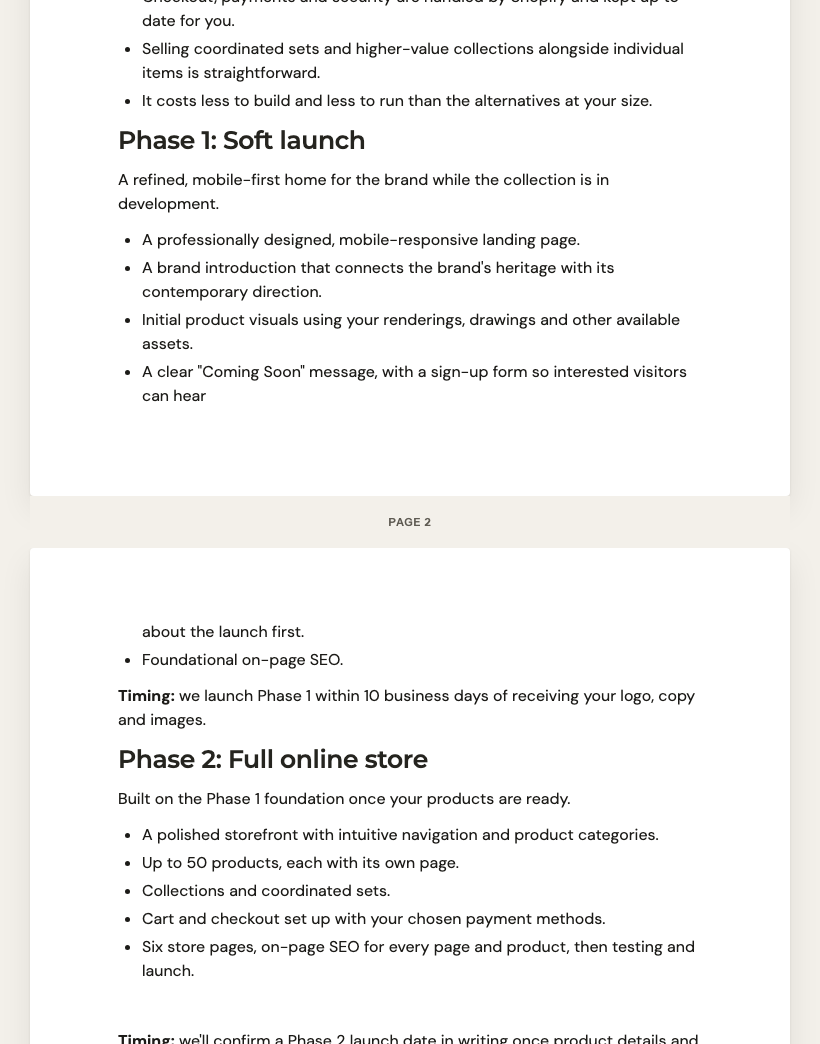
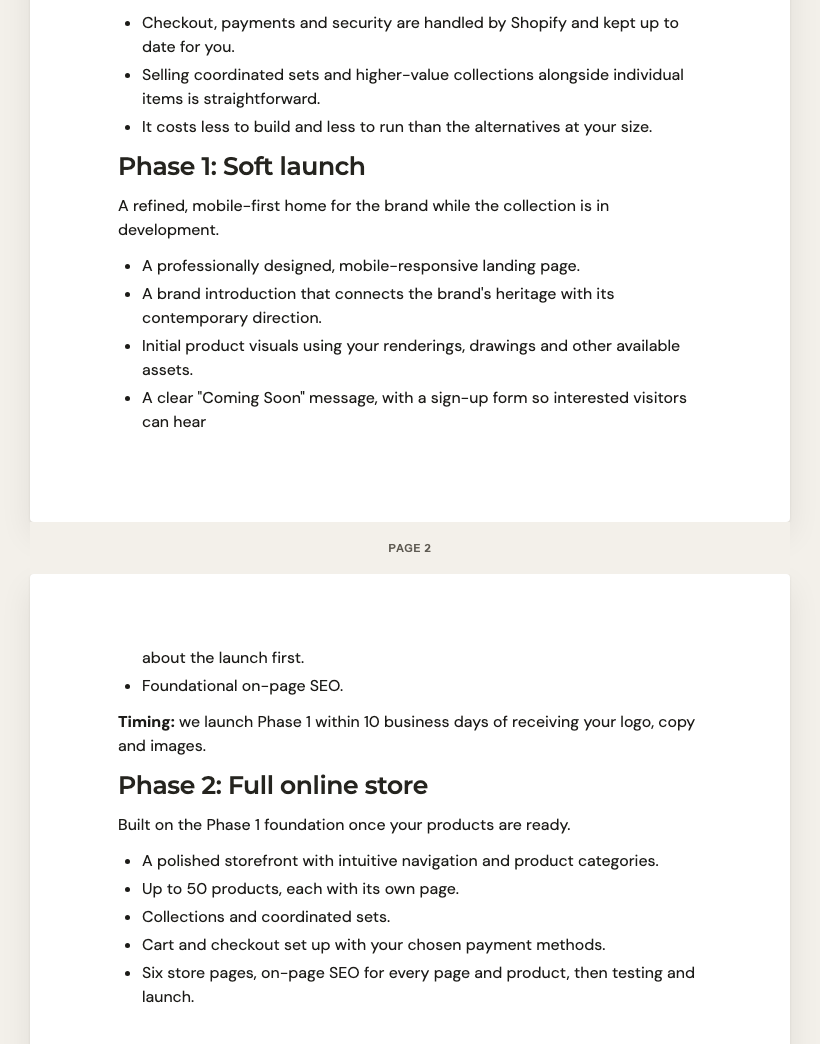
Document PR 6 verification and owner-review evidence

Changed region(s): [[0.122, 0.0, 0.8232, 0.4291], [0.122, 0.5824, 0.8537, 1.0], [0.4878, 0.4904, 0.5183, 0.5517]]

diff --git a/docs/editor-v2-pr6-evidence.md b/docs/editor-v2-pr6-evidence.md
@@ -1,0 +1,35 @@
+# Editor v2 owner review — PR 6 evidence
+
+Viewport: 1440 × 1100, light theme. Before: main `30297b8`; after: this PR. Both use the existing neutral TEST 3 text/list structure, Montserrat / DM Sans, Standard density, 0.75in margins, and a neutral logo with the owner's original aspect ratio. Pricing adds neutral required, optional, alternative and multi-sub-line examples. Signed examples use synthetic fixture signatures. No live owner export is included.
+
+The before page break cuts the visible “Coming Soon” item after “hear”; after, the complete two-line item starts page 2. PDF images below are generated by the app's actual preview/sealing renderer and rendered with Poppler. The completion certificate is unchanged and excluded from this visual comparison.
+
+| Change | Before | After |
+| --- | --- | --- |
+| Page 1 → 2 | ![Before page break](screenshots/editor-v2-pr6/break-before.png) | ![After page break](screenshots/editor-v2-pr6/break-after.png) |
+| Sections | ![Before Sections](screenshots/editor-v2-pr6/sections-before.png) | ![After Sections](screenshots/editor-v2-pr6/sections-after.png) |
+| Required / optional / choice rows | ![Before pricing](screenshots/editor-v2-pr6/pricing-before.png) | ![After pricing](screenshots/editor-v2-pr6/pricing-after.png) |
+| Totals | ![Before totals](screenshots/editor-v2-pr6/totals-before.png) | ![After totals](screenshots/editor-v2-pr6/totals-after.png) |
+| Unsigned signatures | ![Before unsigned signatures](screenshots/editor-v2-pr6/signatures-unsigned-before.png) | ![After unsigned signatures](screenshots/editor-v2-pr6/signatures-unsigned-after.png) |
+| Signed signatures | ![Before signed signatures](screenshots/editor-v2-pr6/signatures-signed-before.png) | ![After signed signatures](screenshots/editor-v2-pr6/signatures-signed-after.png) |
+| Client signing | ![Before signing](screenshots/editor-v2-pr6/signing-interaction-before.png) | ![After signing](screenshots/editor-v2-pr6/signing-interaction-after.png) |
+| Cover edit mode | ![Before cover editing](screenshots/editor-v2-pr6/cover-before.png) | ![After cover editing](screenshots/editor-v2-pr6/cover-after.png) |
+| Sub-line inputs / removal | ![Before sub-lines](screenshots/editor-v2-pr6/sublines-before.png) | ![After sub-lines](screenshots/editor-v2-pr6/sublines-after.png) |
+
+After removing down to one line: ![Single line shown as item price](screenshots/editor-v2-pr6/subline-single-after.png)
+
+## Matching PDF pages
+
+| Page | Before | After |
+| --- | --- | --- |
+| 1 — cover / first page | ![Before PDF page 1](screenshots/editor-v2-pr6/pdf-before-1.png) | ![After PDF page 1](screenshots/editor-v2-pr6/pdf-after-1.png) |
+| 2 — text continuation | ![Before PDF page 2](screenshots/editor-v2-pr6/pdf-before-2.png) | ![After PDF page 2](screenshots/editor-v2-pr6/pdf-after-2.png) |
+| 3 — pricing / totals | ![Before PDF page 3](screenshots/editor-v2-pr6/pdf-before-3.png) | ![After PDF page 3](screenshots/editor-v2-pr6/pdf-after-3.png) |
+| 4 — unsigned signatures | ![Before PDF page 4](screenshots/editor-v2-pr6/pdf-before-4.png) | ![After PDF page 4](screenshots/editor-v2-pr6/pdf-after-4.png) |
+| 4 — signed signatures | ![Before signed PDF page 4](screenshots/editor-v2-pr6/pdf-signed-before-4.png) | ![After signed PDF page 4](screenshots/editor-v2-pr6/pdf-signed-after-4.png) |
+
+Single-price PDF projection after removing two sub-lines: ![Single-price PDF](screenshots/editor-v2-pr6/pdf-single-after-3.png)
+
+## Verification
+
+Full unfiltered browser suite: 139 passed, three optional capture tests skipped (11.2 minutes). All 311 unit/database tests (53 files), TypeScript, formatting, neutrality, production build and PDF runtime tracing (327 API files) passed. Frozen PagePlan, PDF page-start/text, hash, persistence and signing-conflict assertions remain intact.

diff --git a/HANDOFF_PHASE2.md b/HANDOFF_PHASE2.md
@@ -888,4 +888,16 @@ Six new browser regressions cover failed fonts/images, a stalled image and a sta
 
 ## PR 6 — owner-review fixes (preflight)
 
-Started from main `30297b8`. The neutral TEST 3 fixture confirms the reported mid-line break: its display column is 585.6px versus the PDF's 672px, and source offset 312 falls inside a display line. Baseline capture and the pending question about non-adjacent signatures are in `docs/editor-v2-pr6-preflight.md`. Implementation will use one commit per numbered fix; no database migration is currently indicated for cover data in existing JSON.
+Started from main `30297b8`. The neutral TEST 3 fixture confirms the reported mid-line break: its display column is 585.6px versus the PDF's 672px, and source offset 312 falls inside a display line. Baseline measurements and the resolved adjacent-only signature decision are in `docs/editor-v2-pr6-preflight.md`. Each numbered fix has its own implementation commit; cover data uses existing JSON without a database migration.
+
+## Editor v2 owner review — PR 6 / PR #56
+
+Seven implementation commits cover the seven requested fixes. TEST 3 confirmed that the old 585.6px visible text column disagreed with the 672px PDF column. The editor now uses the PDF column whenever it fits; narrow displays snap the painted continuation to a line start without changing canonical offsets. New pagination keeps short paragraphs/list items whole and enforces two lines on each side of paragraph/list/clause splits. Existing frozen PagePlans, hash inputs for versions without a cover, and signing conflict guards are retained.
+
+Sections handles align with the title's first line. Pricing rows, choices, the totals grid and signatures share their screen/print presentation. Adjacent client/company signatures pair; authored separations and frozen breaks remain intact. The same signature pair previews the client's entry while signing and displays accepted signatures in the locked editor. Pricing drag controls remain usable without covering names, prices or selection controls. Hidden measurement clones cannot uncheck visible radio groups.
+
+Covers are optional proposal/template/version JSON: logo override/removal/default, workspace line, eyebrow and byline with fields. New templates start with the requested default fields; drafts inherit the template cover. Existing records without a stored cover retain their previous reading/print content. Cover edits use the existing autosave, publication, recovery and version-freezing paths; the cover participates in hashes only when present. No migration or hosted setup is needed.
+
+Sub-line inputs use the exact shared fallback seen in the document and PDF. Duplicate blank labels receive a local warning. Visible 32px remove controls stop at one line, retain labels in storage and use the existing undo/autosave path; the remaining single line is the item's main price.
+
+Evidence: [neutral TEST 3 comparisons and PDF page images](docs/editor-v2-pr6-evidence.md). No owner export, provider credentials or real customer data is included. Final verification: the full unfiltered browser suite passed — 139 tests, with three optional capture tests skipped (11.2 minutes). All 311 unit/database tests (53 files), TypeScript, formatting, neutrality, production build and PDF runtime tracing (327 API files) passed. The unchanged keep-together boundary test also passed three consecutive targeted runs after outward sheet-height rounding fixed fractional display clipping. GitHub CI is not awaited.

diff --git a/docs/editor-v2-pr6-preflight.md b/docs/editor-v2-pr6-preflight.md
@@ -14,14 +14,18 @@ Measured the existing neutral TEST 3 regression fixture at 1440px with Sections 
 
 The before capture is [break-before.png](screenshots/editor-v2-pr6/break-before.png). The raw owner export remains outside git; only the existing neutral fixture was used for this capture.
 
-## Signature grouping question
+## Confirmed signature grouping
 
-The prototype's `isSig` is one paired block, but the app stores client and company signatures as independent blocks. They can be separated by an explicit page break and body text; `e2e/editor-round4.spec.ts:457` deliberately exercises that authored layout.
-
-For fix 5, should pairing apply only to adjacent client/company signature blocks, preserving intentional separation, or should all unsigned signature blocks be brought together regardless of their current positions?
-
-Recommended: pair adjacent blocks; retain explicitly separated blocks in their authored positions. All frozen PagePlans remain authoritative either way. No choice has been implemented yet.
+Jonathan chose adjacent pairs only: client/company signature blocks are paired when adjacent; intervening text and explicit page breaks stay where the author placed them. A frozen PagePlan that starts a new page between the two blocks remains authoritative. Signature roles display Client on the left and Company on the right without changing the stored block order.
 
 ## Delivery sequence
 
-Each numbered fix will have its own implementation commit: (1) wrapping and widow/orphan rules, (2) Sections handle alignment, (3) pricing rows, (4) totals, (5) signatures, (6) cover, (7) sub-lines. Cover data can use the existing proposal/template/version JSON; no schema migration is currently indicated. Stripe, billing, readiness policy, publication policy and the sealed certificate page are outside this PR.
+Each numbered fix has its own implementation commit: (1) wrapping and widow/orphan rules, (2) Sections handle alignment, (3) pricing rows, (4) totals, (5) signatures, (6) cover, (7) sub-lines. Cover data can use the existing proposal/template/version JSON; no schema migration is needed. Stripe, billing, readiness policy, publication policy and the sealed certificate page are outside this PR.
+
+## Final implementation and evidence
+
+The wide editor column is now 672px at the measured 1440px layout (788px sheet, 64px left / 52px right). Larger canvases may use an 848px sheet with wider gutters. Painted sheet heights round outward to keep fractional browser margin/top rounding from putting the last unit inside bottom padding; this never changes source boundaries or PDF dimensions. Narrow displays snap only their visual continuation to a line boundary; saved offsets stay canonical. The TEST 3 first new computation starts at the whole “Coming Soon” list item (`regression-9`, offset 229, paragraph 6), rather than at offset 312 inside its text.
+
+New computations apply two-line widow/orphan protection, including short contract clauses. Hidden measurement copies have independent radio names so they cannot change the visible selected option. Keyboard section traversal skips computed-page label drop targets, retaining explicit-page targets; pointer page/section drops retain their existing handlers.
+
+[Before/after screenshots and matching PDF images](editor-v2-pr6-evidence.md) use the neutral TEST 3 fixture at a 1440px viewport. The raw owner export is not committed.

diff --git a/DECISIONS.md b/DECISIONS.md
@@ -423,3 +423,10 @@ At 924px the owner chose PR 1’s existing modal drawer behavior: verify its scr
 - PR #55 status-bar review: EditorButton owns the shared 36px pill sizing, 13px/600 type and outline/ink variants used by editor header actions and recovery/conflict/error notices. Notice height is content-driven with a 48px minimum and 6px vertical padding; recovery detail positioning follows the notice's actual height. Existing save, reload, keep/discard and retry handlers stay unchanged.
 - PR #55 CI checkbox fix: hide the completed Send-tab review row instead of unmounting its native control during activation. This preserves single-click checked-state delivery with fast acknowledgements while keeping the completed row outside layout/accessibility/focus order. A rejected acknowledgement is cleared only when Reload loads the current revision; server review/Send revision checks and the stale lock remain intact.
 - PR #55 pagination readiness: only a measured current page plan is exact/settled. Asset loading gets a one-second grace period shared across pending asset-key changes; after it expires, paginate with available metrics and remeasure when assets settle. Failed loads are terminal for waiting, not for pagination. Ignore stale completion callbacks and clear timers on cleanup. The pagination algorithm, projection, PagePlan and PDF pipeline stay unchanged.
+
+## Editor v2 owner review — PR 6
+
+- The editor's canonical pagination and the wide display share the PDF content width. Narrow display-only projections snap to line starts; new widow/orphan rules do not rewrite frozen plans.
+- Pair only adjacent client/company signatures, preserving intervening text, explicit breaks and stored frozen boundaries. Client appears left, Company right; stored block order and signed evidence stay unchanged.
+- Store an optional cover in the existing proposal, template and version JSON. Missing covers retain their previous presentation. New templates use field-based defaults; drafts inherit template covers. Include a present cover in the version hash and the existing live-edit/recovery lifecycle, without changing publication policy.
+- Use one sub-line fallback function for inputs, reading and print. Repeated unnamed sub-lines are an inline hint, not a readiness rule. Removing a line is an ordinary undoable quote edit and never removes the last line.
